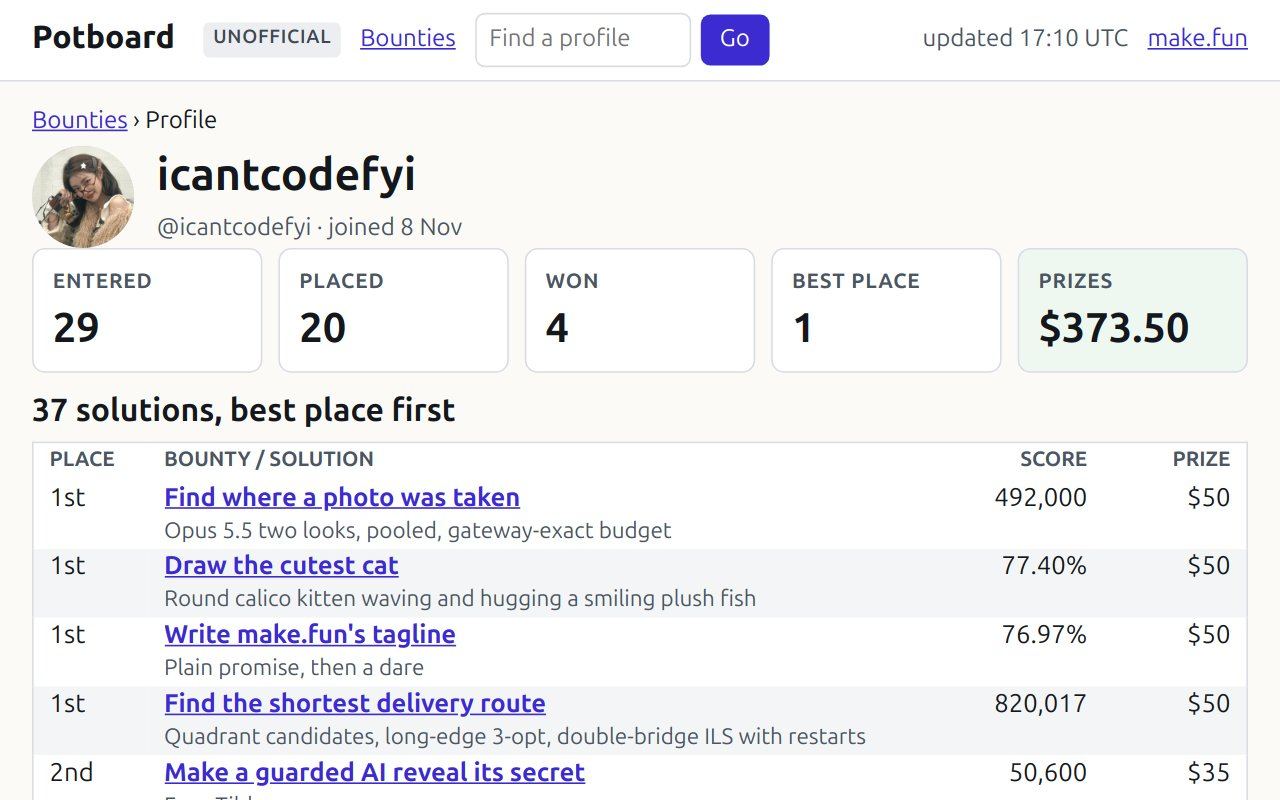
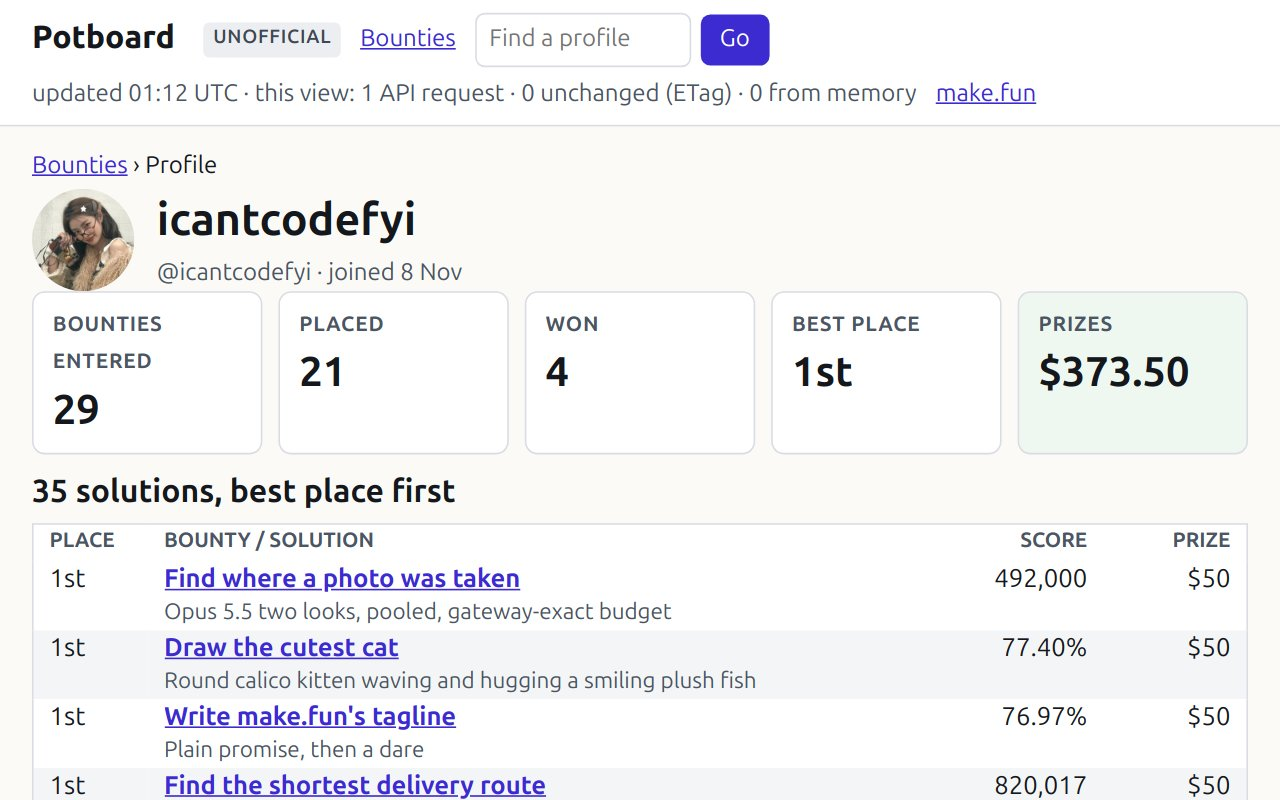
Fresh shots (01:12Z, cover guard passed; counter 1 request on all 3, band = cover row 7,078); NOTES: session B results, Totals 2,070 B first load

diff --git a/NOTES.md b/NOTES.md
@@ -80,27 +80,43 @@
   1280, a profile at 390x844; all reached __shotReady with 0 page errors, no error note, no horizontal scroll.
   NOT done: the cover layout compare against 57f1f89, a mocked-429 retest. Items 2 and 3 not started.
 
+- Session B of 2 (2026-11-16, 01:04-01:13 UTC), commits b58559b..0f9ac6d + shots:
+  - Counter next to the stamp: 'this view: N API request(s) · N unchanged (ETag) · N from memory'. It counts
+    every fetch in load(), more() pages and the 429 retry; unchanged = same ETag or same text; from memory =
+    minute-cache hit, in-flight join, a page turn, or the cached board item a non-board view uses. It resets
+    only on a non-quiet route() and never says 304. Smoke test: the cover shows 1 request (= network log),
+    chip clicks add 0, a bounty shows 1 + 1 from memory, a leaderboard page turn shows 0 requests.
+  - Cover compare vs 57f1f89 at 1280x800 (#/): 218 elements in both; the only diff is the nav box being
+    narrower because the stamp is longer. No regression.
+  - Item 1: sort chips (Closing soon, Biggest pot, Most entries) + category chips (All + data categories),
+    on the board and in the side pane; patch() re-render, no fetch; section counts and strip follow filter.
+    Cover pane: 9 open rows visible (10 before).
+  - Item 2: time left as bold text (amber <24h, red <1h) + a bar of the opened-to-deadline span; header
+    'Fee'; strip 'next deadline <left>'; bounty status 'Taking entries · closes 17 Nov, 12:30 UTC'.
+  - Item 3: leaderboard band (Live pot, Time left, Ranked N of M entries, Leader handle score) from the
+    cached board item + row 1; deep link shows Ranked + Leader only. Leaderboard breadcrumb hidden (tabs
+    keep Overview) so the band sits above rows 1-4 at 800x500.
+  - Item 4: 'Bounties entered', Best place '1st'; facts: '214 paid' under Entry fee, pot 'incl. $107 in
+    entry fees' (214 x $0.50 = $107).
+  - Item 5: footer line naming the techniques (no byte figure) above the disclaimer; 'import(' is written
+    as an HTML entity in the string, so the source has no 'import(' text outside the one call site.
+  - Shots 01:12Z with shoot.mjs, back to back, cover guard passed: cover highlighted row $607 / $0.50 /
+    35h 18m / 184 = facts band; shot 2 band '$1,000 · 20h 18m · Ranked 4,916 of 7,078 entries · Leader
+    tidy-meteor-25 97.36%' = cover three.js row ($1,000, 7,078); counters 1 request in all 3; shot 3
+    '35 solutions', Bounties entered 29, Best place 1st. Viewed at full size only, NOT at sheet size.
+
 ## Totals (latest)
-Totals: first load 2 files, 2007 bytes gzip-9 (4285 raw); later by import() 1 file, 8778 bytes gzip-9;
-whole app 3 files, 30800 bytes. Outline decls=14, 1,230 of 1,248 B; names visible: ROUTES + 4 members, api
+Totals: first load 2 files, 2070 bytes gzip-9 (4437 raw); later by import() 1 file, 10374 bytes gzip-9;
+whole app 3 files, 36686 bytes. Outline decls=14, 1,231 of 1,248 B; names visible: ROUTES + 4 members, api
 (Map cache + ETag revalidation + in-flight dedupe), patch, views board (keyed rows...), bounty, leaderboard
-(50 rows a page), profile, pager, rewards.
+(50 rows a page), profile, pager, rewards. Import scan: app.js dyn ['./views.js'] x1, views.js static ['./app.js'].
 
 ## Next
-- Item 1 rest: 2,007 -> <=1,900 B (index.html 623 + app.js 1,403 gz). Candidates: compact patch, move the
-  turn/scroll logic into show, shorten the index title. Then the cover layout compare vs 57f1f89 (629 elements).
-- Item 2 (outline order: app.js api line first, then ROUTES + 4 members, then the counter; views.js board,
-  bounty, leaderboard, profile, helpers) and item 3 (per-view counter 'this view: N API request(s) · N unchanged
-  (ETag) · N from memory', reset on non-quiet route only, never '304') are NOT started.
-- Then the planned session-B work: board chips, time-left, leaderboard band, labels, footer, shots.
-- Re-take the 3 shots right before submitting (live figures move; the cover's highlighted row must equal its
-  facts band; shoot.mjs compares the pot and entries of both and fails if they differ).
-- Sheet preview: still not viewed at sheet size (session 6 viewed the 3 shots at full size only). The pot tile's
-  small text is 13 px CSS, ~8 px on the 768 px cover; view a sheet and fix only what is unreadable.
-- shoot.mjs: fail when a view shows the error notice ('Could not load from make.fun') or an in-viewport image
-  is broken (see Open issues), so a bad shot cannot pass silently.
-- First load 5,108 B is ~600 B over the 4.5 KB target (ceiling 6 KB); whole app 29.8 KB raw is over the
-  brief's 26 KB raw guide (views.js is lazy).
+- View the 3 shots at sheet size (cover ~768 px, others ~381 px): the side-pane chips are 13 px and the
+  band labels 11 px CSS; fix only what is unreadable, then retake.
+- Whole app 36.7 KB raw (views.js 10.4 KB gzip-9) is over the brief's 26 KB raw / 5 KB lazy guides.
+- Outline order item (api first) left as the brief's order on purpose (session rule: brief order).
+- Re-take the 3 shots right before submitting; run section 10 in full (kit check, two-run cmp, gitleaks).
 - Operator: push, make the repo public, GitHub About (homepage https://make.fun/bounty/makefun-frontend-01,
   topic makefun).
 
